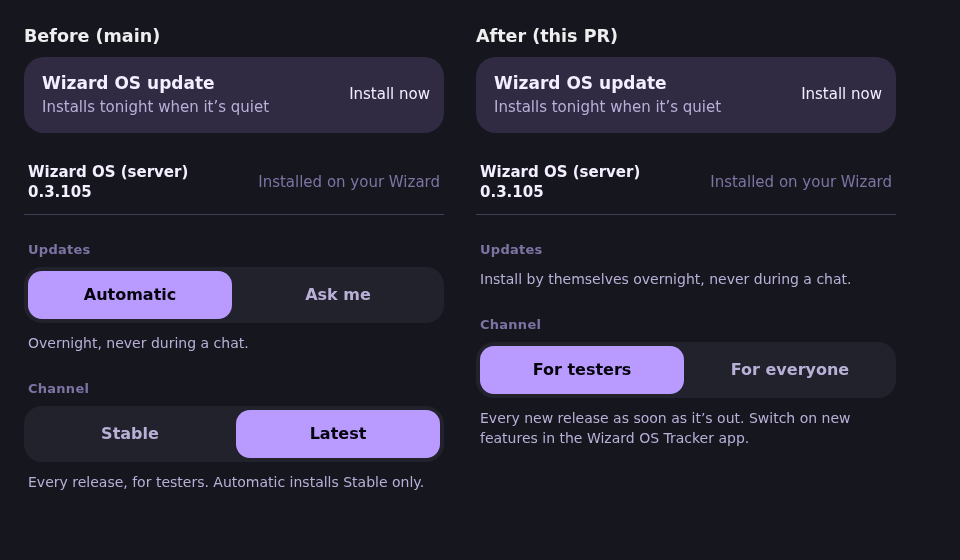
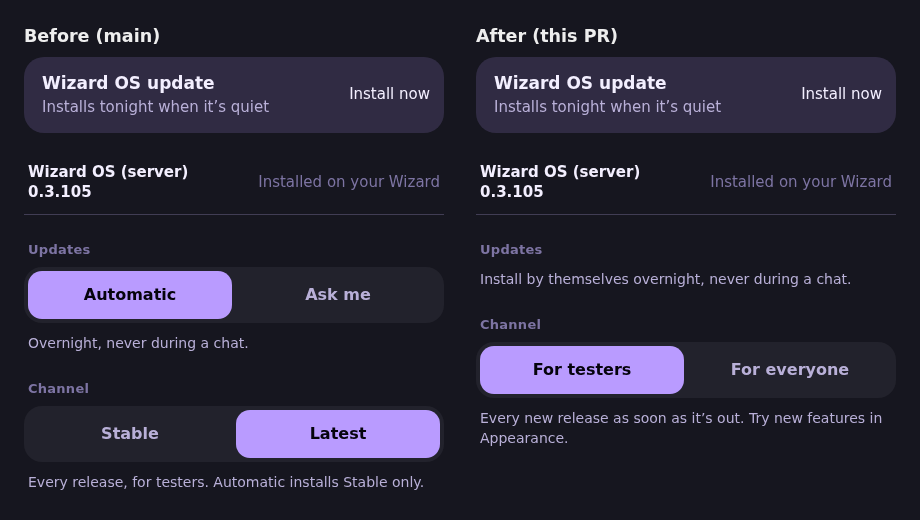
Feature switches in both Settings (For testers: Try new features) and the Tracker, one state
Settings › Appearance lists the feature switches again under "Try new features", only when the box is
on For testers (channel latest); hidden on For everyone (switches stay off and locked). Same storage as
before (look.json tweaks via WosLookSync), so a flip in Settings or the Tracker is the same switch.
No pointer to the Tracker; the For testers hint says "Try new features in Appearance."

diff --git a/web/core/settings.js b/web/core/settings.js
@@ -304,15 +304,21 @@
     const whereView = s.shell === 'desktop' ? 'Desktop view' : 'Phone view';
     const shown = shellTweaks(exp, s.shell).map(t => t.view && s.shell ? { ...t, where: whereView } : t);
     const err = s.error ? `<p role="alert">${esc(s.error)}</p>` : '';
-    // Feature switches left Settings (Miguel, 7 Nov 2026): they are turned on and off only in the Wizard OS Tracker app
-    // (the box's feature-switch API), and only on For testers. Settings keeps shell views (a view is a way to see the
-    // shell, chosen per device type) and the options of a switch that is on, never the feature switch itself.
-    // Views stay one flat list, A to Z, each labelled "by <author>".
-    const list = [...shown].filter(t => t.view).sort((a, b) => String(a.name || a.id).localeCompare(String(b.name || b.id)) || a.id.localeCompare(b.id));
-    const rows = list.map(t => tweakSwitches([t], 'data-tweak-toggle', s.busy, name) + (t.on && tweakOpts.has(t.id) ? `<div class="tw-opts" data-tweak-opts="${esc(t.id)}"></div>` : '')).join('');
-    const opts = shown.filter(t => !t.view && t.on && tweakOpts.has(t.id)).map(t => `<div class="st-row static tw-row"><span class="st-tx"><b>${esc(t.name)}</b></span></div><div class="tw-opts" data-tweak-opts="${esc(t.id)}"></div>`).join('');
-    const moved = s.locked ? 'New features are for testers: choose For testers in About &amp; updates, then turn them on in the Wizard OS Tracker app.' : 'Turn new features on or off in the Wizard OS Tracker app.';
-    return `${viewPicker}${rows ? `<div class="tw-group"><h4>Views</h4><div class="tw-list">${rows}</div></div>` : ''}<div class="tw-group" data-tweaks-moved><h4>New features</h4><p class="st-hint">${moved}</p>${err}${opts ? `<div class="tw-list">${opts}</div>` : ''}</div>`;
+    // Feature switches live in two places with one state, Chrome-flags style (Miguel, 7 Nov 2026): here under "Try new
+    // features" and in the Wizard OS Tracker app. Both write look.json `tweaks` (Settings via WosExperience.toggle and
+    // WosLookSync, the Tracker via the box's feature-switch API); WosLookSync's refresh brings either side's flip to the
+    // other. The section shows only when the box is on For testers (channel latest); on For everyone it is hidden and
+    // experience.js keeps the switches off and locked. Views stay their own list (a way to see the shell, not a feature).
+    // Each list is flat, A to Z, each switch labelled "by <author>".
+    const list = [...shown].sort((a, b) => String(a.name || a.id).localeCompare(String(b.name || b.id)) || a.id.localeCompare(b.id));
+    const cells = list.map(t => tweakSwitches([t], 'data-tweak-toggle', s.busy, name) + (t.on && tweakOpts.has(t.id) ? `<div class="tw-opts" data-tweak-opts="${esc(t.id)}"></div>` : ''));
+    const viewRows = cells.filter((_, i) => list[i].view).join('');
+    const testers = s.channel === 'latest';
+    const features = testers ? cells.filter((_, i) => !list[i].view).join('') : '';
+    // For everyone, or the channel not read yet: a switch that is on keeps its options, without the switch itself.
+    const opts = testers ? '' : list.filter(t => !t.view && t.on && tweakOpts.has(t.id)).map(t => `<div class="st-row static tw-row"><span class="st-tx"><b>${esc(t.name)}</b></span></div><div class="tw-opts" data-tweak-opts="${esc(t.id)}"></div>`).join('');
+    const tryNew = testers && features ? `<div class="tw-group" data-try-features><h4>Try new features</h4><p class="st-hint">Unfinished features you can switch on to try. The team can see which ones you use only if you allow it.</p>${err}<div class="tw-list">${features}</div></div>` : '';
+    return `${viewPicker}${viewRows ? `<div class="tw-group"><h4>Views</h4>${tryNew ? '' : err}<div class="tw-list">${viewRows}</div></div>` : ''}${tryNew}${opts ? `<div class="tw-group"><div class="tw-list">${opts}</div></div>` : ''}${!viewRows && !tryNew ? err : ''}`;
   }
   let authorList = null;
   const tweakOpts = new Map(); // tweak id -> its options node (skin-host api.settings.section(.., 'look', node))

diff --git a/web/core/os-updates.js b/web/core/os-updates.js
@@ -9,7 +9,8 @@
  * while a chat run is active; Install now is the "now" escape. There is no Automatic / Ask me choice any more.
  * Channels keep their ids (stable / latest) but are shown as "For everyone" and "For testers": every merge to main
  * reaches For testers; a For testers release moves to For everyone after about 3 days with no release blocker.
- * New work ships behind off-by-default feature switches, which testers turn on in the Wizard OS Tracker app.
+ * New work ships behind off-by-default feature switches, which testers turn on in Settings › Appearance ("Try new
+ * features") or in the Wizard OS Tracker app: one shared state (look.json `tweaks`).
  *
  * Same path as the Store's Get: `../store-install/_updates` is the App Manager's owner-only listener behind
  * Tailscale Serve (owner login, the shell's own Origin, JSON + X-Wizard-Store). No token reaches the browser.
@@ -127,7 +128,7 @@
     const ch = ['stable', 'latest'].includes(st.channel) ? st.channel : '';
     // An App Manager from before the channel fix (wizard-app-manager issue 458) installs only For everyone releases by itself, even on For testers: say so.
     const oldAuto = auto && st.always_auto !== true && ch === 'latest' ? ' Updates install by themselves only for For everyone releases until your Wizard is updated.' : '';
-    const channel = ch ? `<div class="osu-sec"><span class="osu-lbl">Channel</span>${seg('Release channel', [['ch-latest', CHANNEL_NAME.latest, ch === 'latest'], ['ch-stable', CHANNEL_NAME.stable, ch === 'stable']])}<p class="st-hint">${ch === 'stable' ? 'Releases testers have used for about 3 days.' : `Every new release as soon as it’s out. Switch on new features in the Wizard OS Tracker app.${oldAuto}`}</p></div>` : '';
+    const channel = ch ? `<div class="osu-sec"><span class="osu-lbl">Channel</span>${seg('Release channel', [['ch-latest', CHANNEL_NAME.latest, ch === 'latest'], ['ch-stable', CHANNEL_NAME.stable, ch === 'stable']])}<p class="st-hint">${ch === 'stable' ? 'Releases testers have used for about 3 days.' : `Every new release as soon as it’s out. Try new features in Appearance.${oldAuto}`}</p></div>` : '';
     const install = `<div class="osu-sec" data-osu-auto><span class="osu-lbl">Updates</span>${auto ? '<p class="st-hint">Install by themselves overnight, never during a chat.</p>' : `<button type="button" class="st-wide wz-button secondary" data-osu="auto" ${busy ? 'disabled' : ''}>Turn on automatic updates</button><p class="st-hint">Nothing installs until you tap Install.</p>`}</div>`;
     return `<div class="st-group" data-osu-group>${cardHtml()}${quietHead()}${install}${channel}</div>`;
   }

diff --git a/web/core/experience.js b/web/core/experience.js
@@ -257,7 +257,7 @@
     get state() {
       return copy({ owner, busy, error, active: window.WosSkinHost?.tweakState || [],
         shell: shellHere(),
-        tweaks: [...manifests].filter(([id]) => shownInGroup(id)).map(([id, m]) => ({ id, name: m.name, description: m.description || '', author: id.split('/')[0], builtin: globalIds().includes(id), layout: layoutForView(id), view: viewOf(id), on: groupOf(id) ? groupOn(id) : enabled(id) })).map(t => t.view ? { ...t, shells: shellsOf(t.id), on: t.id === wornView(recipe()) } : Array.isArray(manifests.get(t.id)?.shells) ? { ...t, shells: shellsOf(t.id) } : t).map(t => locked() && !t.builtin && !t.view ? { ...t, on: false, locked: true } : t), locked: locked() });
+        tweaks: [...manifests].filter(([id]) => shownInGroup(id)).map(([id, m]) => ({ id, name: m.name, description: m.description || '', author: id.split('/')[0], builtin: globalIds().includes(id), layout: layoutForView(id), view: viewOf(id), on: groupOf(id) ? groupOn(id) : enabled(id) })).map(t => t.view ? { ...t, shells: shellsOf(t.id), on: t.id === wornView(recipe()) } : Array.isArray(manifests.get(t.id)?.shells) ? { ...t, shells: shellsOf(t.id) } : t).map(t => locked() && !t.builtin && !t.view ? { ...t, on: false, locked: true } : t), locked: locked(), channel });
     },
     installed, defaults, authors,
     // Initial shell routes must see the selected view, including overlapping refreshes.

diff --git a/docs/COMPONENTS.md b/docs/COMPONENTS.md
@@ -73,7 +73,7 @@ Back: `WizEscapeBack`, `WosBack`; `WizChatsHost.registerBack`/back.push share re
 | Send to agent | `WizShareWizard` (`share-wizard.js`); `WizSheetBack` (`sheetback.js`) |
 | Uploads of any size | `WizUploads` (`uploads.js`) |
 | Files browse, preview, attach | `WosFiles` (`files.js`) |
-| Settings in both shells | `WosSettings.register` (`settings.js`: Skin/Colors, Background/Mode, shared About/fail-closed updates, package `hasSystem`), `focus(id)`; same-root Home/AI rehost, no entrance replay; Look/New skin shell filter (keeps hidden defaults); reply tweak `tweakCard`; narrow Back; `WosFeatures`; `WizConfig.responseStyle`; no switch list (Tracker app) |
+| Settings in both shells | `WosSettings.register` (`settings.js`: Skin/Colors, Background/Mode, shared About/fail-closed updates, package `hasSystem`), `focus(id)`; same-root Home/AI rehost, no entrance replay; Look/New skin shell filter (keeps hidden defaults); reply tweak `tweakCard`; narrow Back; `WosFeatures`; `WizConfig.responseStyle`; Look "Try new features" (testers only; same switches as Tracker) |
 | Agent identity, glyph, hue; which agents an app joins (`appAgents`: privacy, needs_private_agent) | `WosAgents` (`agents.js`) |
 | Store | `storeKind,sourceLabel,parseInstallLink,removeInstalledApp` (`web/store/`) |
 | App agent routing, private-app note + setup (incl. Store) | `WosAppRoute` (`app-route.js`) |
